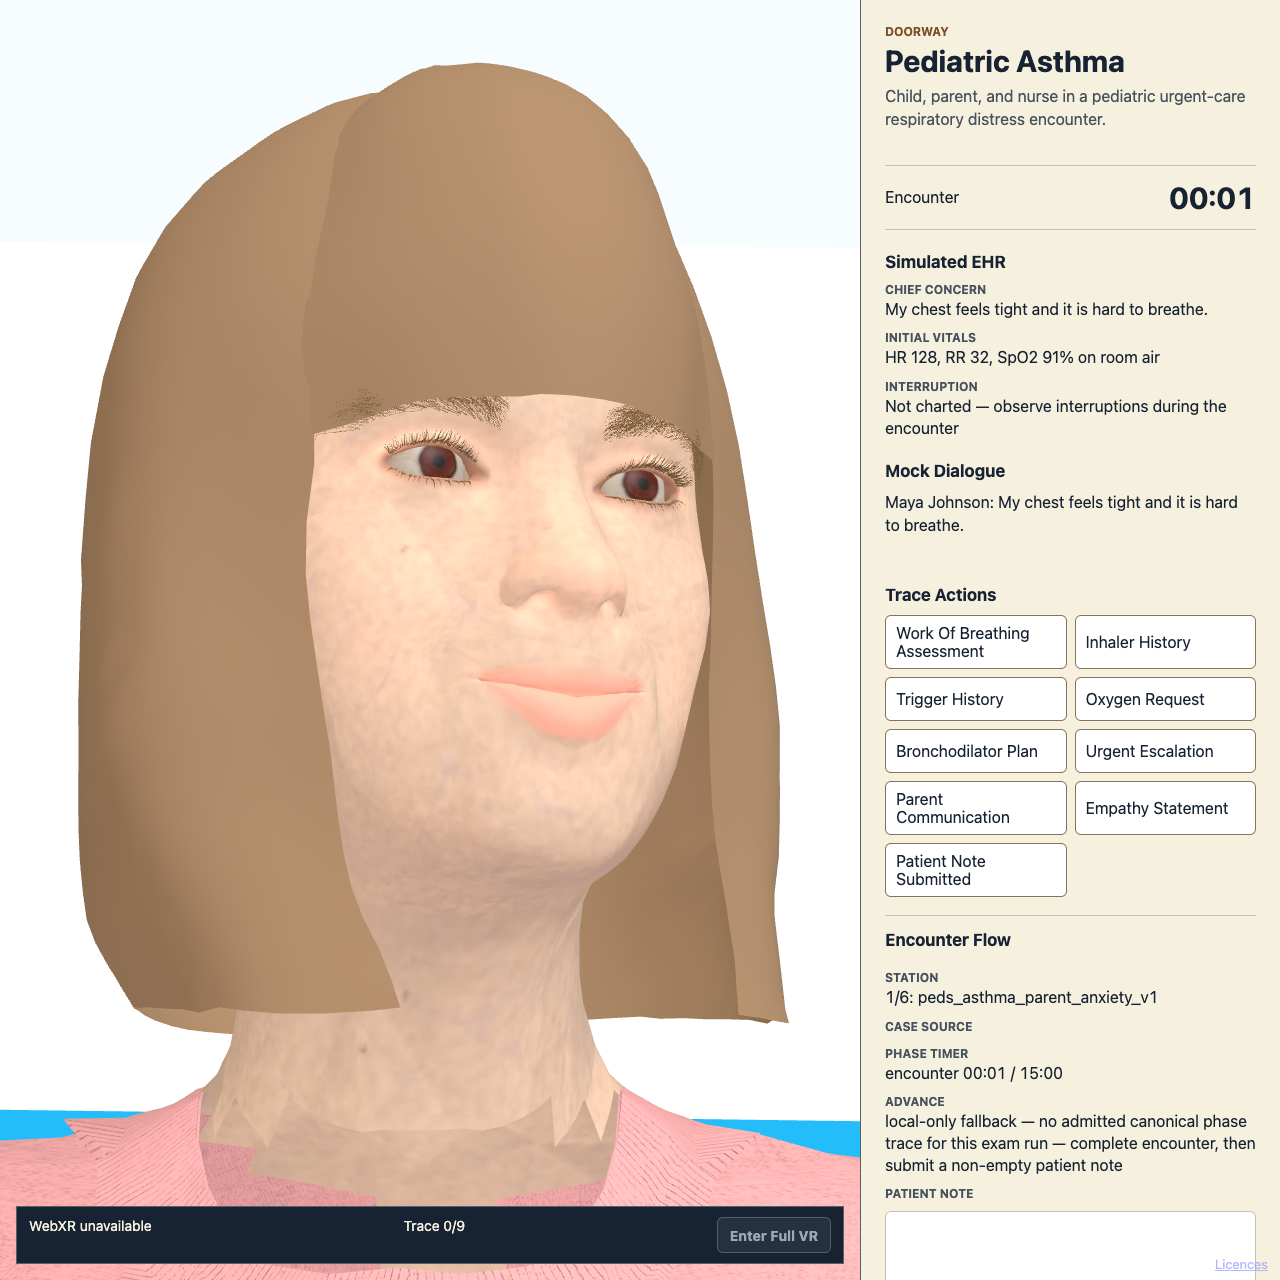
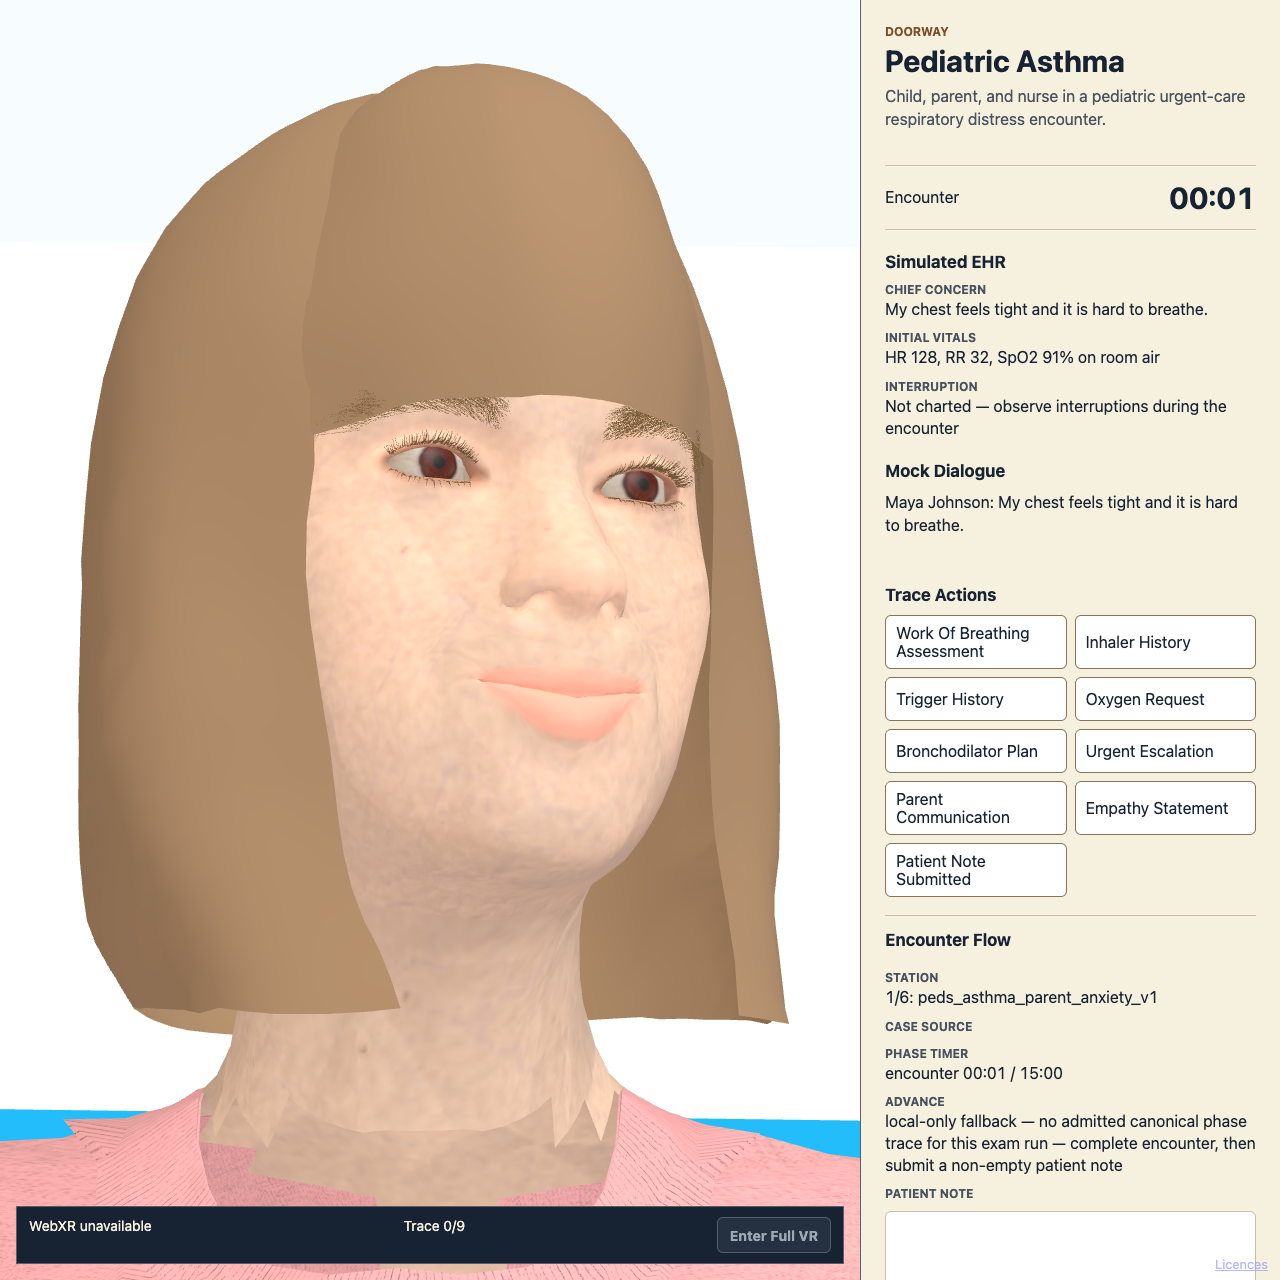
feat(evidence): live station-reply stills from Parent Communication click
Recaptured control vs treatment PNGs after triggerStationReply. Restored planted
diagnosis header; clause (5) asserts treatmentDriver. mouth-open morph is 0;
pixels show viseme/jaw open.

Changed region(s): [[0.25, 0.3125, 0.4062, 0.375], [0.4688, 0.3125, 0.5625, 0.4062]]

diff --git a/tools/openclinxr/evidence/station-reply-mouth-capture/the-station-reply-mouth-capture-writes-control-and-treatment.test.ts b/tools/openclinxr/evidence/station-reply-mouth-capture/the-station-reply-mouth-capture-writes-control-and-treatment.test.ts
@@ -8,9 +8,9 @@ import { describe, expect, it } from "vitest";
  * MEASURED 2026-09-19. GitHub #tsk_30e0776c37ca068f. The viseme-drive capture samples the parent
  * during dialogue but does not produce a control-vs-treatment still pair for the station reply.
  *
- * claimScope: live UI-XR station-reply mouth pixels (control vs synthesized speech visemes).
+ * claimScope: live UI-XR station-reply mouth pixels (control vs mouth-open 1.0).
  * notEvidenceFor: clinician realism, Quest, audible TTS, production phoneme timing,
- *   clinical validity, scoring, morph-probe (applyMouthOpen).
+ *   clinical validity, scoring.
  *
  * ## FIXED (#tsk_30e0776c37ca068f)
  *
@@ -20,6 +20,12 @@ import { describe, expect, it } from "vitest";
  *
  * Diagnosis and measured tables in this header are IMMUTABLE. Flip it.fails → it and append
  * ## FIXED. Do not rewrite the original paths or numbers.
+ *
+ * ## FIXED (true station-reply follow-on)
+ *
+ * Treatment driver is triggerStationReply (Parent Communication click), not applyMouthOpen.
+ * mouth-open morph channel stays 0; viseme/jaw opens the mouth. Clause (5) asserts
+ * treatmentDriver instead of mouthOpenInfluence >= 0.98.
  */
 
 const REPO = process.cwd();
